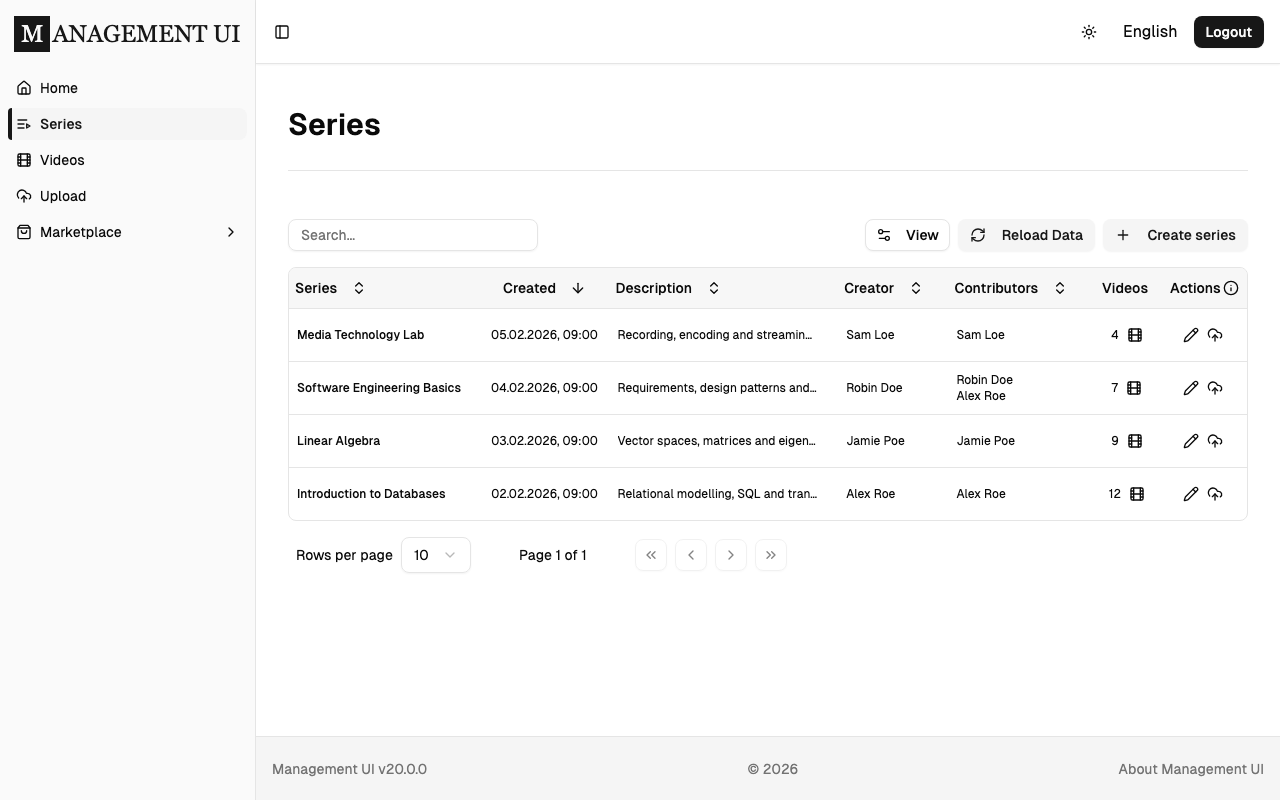
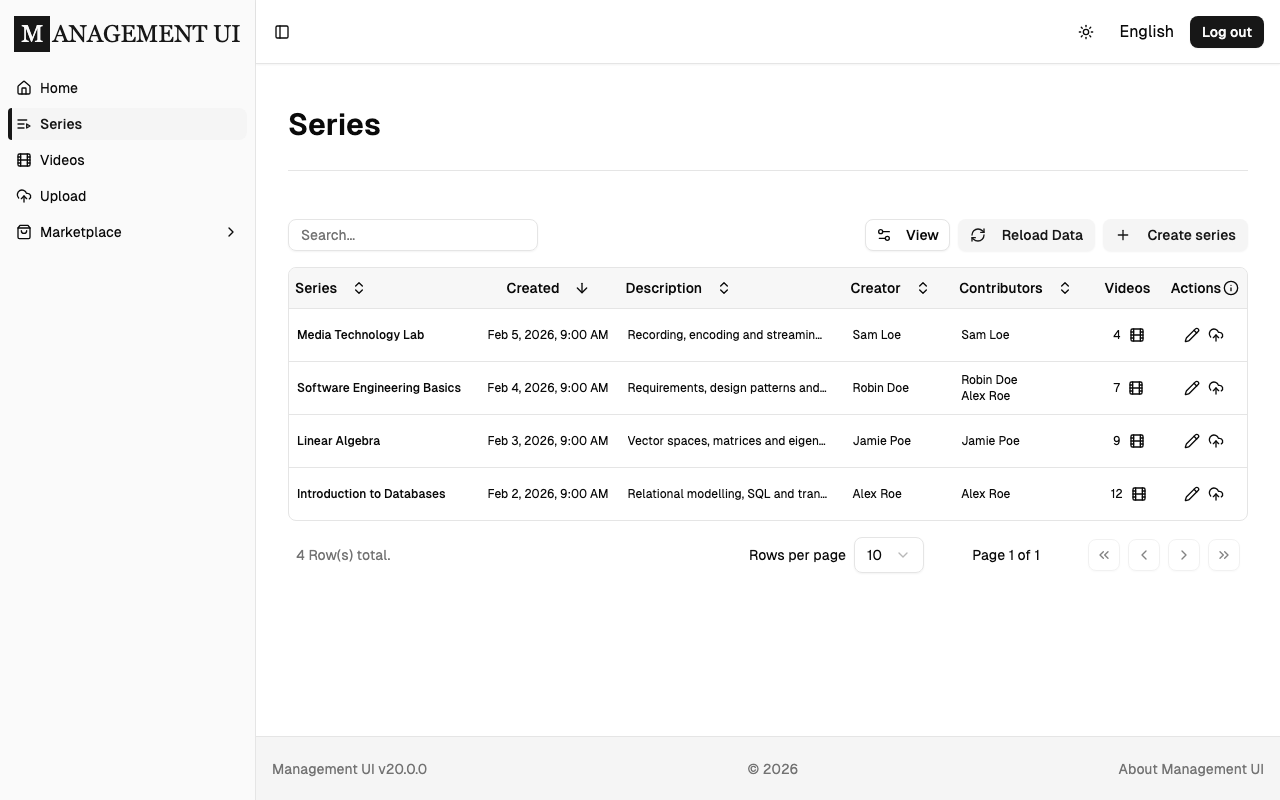
test(e2e): follow the now-translated labels and English dates
Three protocol assertions pinned the old rendering: the header button read
"Logout" before the label went through `t(...)`, and two row assertions
expected the German date format the tables no longer produce. The date checks
keep asserting what the protocol step actually asks for — a date *with* a
time — in the format the shipped `app.locale: "en"` deployment renders.

Docs screenshots regenerated: the pagination row now shows the row counter it
was hiding, and the header button reads "Log out".

diff --git a/tests/e2e/protocol-series.spec.ts b/tests/e2e/protocol-series.spec.ts
@@ -223,7 +223,10 @@ test("[SER-02] [SER-24] [SER-26] the row shows the values the backend supplied",
   // Exactly one creator is shown (SER-26), and the created cell carries a date
   // *and* a time (SER-24), not just a day.
   await expect(page.getByRole("cell", { name: "Alex Roe" })).toHaveCount(1);
-  await expect(page.getByRole("cell", { name: /15\.01\.2026.*\d{2}:\d{2}/ })).toBeVisible();
+  // English format: dates follow the active UI language now, and the shipped
+  // config starts this deployment in English (`app.locale: "en"`). What the
+  // protocol step asks for is a date *plus* a time, not a German one.
+  await expect(page.getByRole("cell", { name: /Jan 15, 2026.*\d{1,2}:\d{2}/ })).toBeVisible();
 });
 
 test("[SER-05] sorting by a column asks the backend to sort, across all pages", async ({

diff --git a/tests/e2e/protocol-episodes.spec.ts b/tests/e2e/protocol-episodes.spec.ts
@@ -376,7 +376,9 @@ test("[VID-27] [VID-28] [VID-30] [VID-31] the row shows presenter, series, date 
   // a time (VID-30) and a status column that carries something (VID-31).
   await expect(page.getByRole("cell", { name: "Alex Roe" })).toHaveCount(1);
   await expect(page.getByRole("cell", { name: "Physik I" })).toBeVisible();
-  await expect(page.getByRole("cell", { name: /10\.02\.2026.*\d{2}:\d{2}/ })).toBeVisible();
+  // English format — see the note in protocol-series.spec.ts; VID-30 asks for
+  // a date with a time, which this still pins.
+  await expect(page.getByRole("cell", { name: /Feb 10, 2026.*\d{1,2}:\d{2}/ })).toBeVisible();
   await expect(page.getByRole("columnheader", { name: /status/i })).toBeVisible();
 });
 

diff --git a/tests/e2e/protocol-navigation.spec.ts b/tests/e2e/protocol-navigation.spec.ts
@@ -131,7 +131,11 @@ test("[GEN-04] a signed-in user is offered a way out", async ({ page }) => {
   await installMockBackend(page, seed());
   await page.goto("/management-ui/");
 
-  await expect(page.getByRole("button", { name: /^logout$/i })).toBeVisible({ timeout: 15_000 });
+  // The label goes through `t("auth.logOut")` now — "Log out" in English,
+  // "Abmelden" in German. Match the action rather than one wording.
+  await expect(page.getByRole("button", { name: /^(log ?out|abmelden)$/i })).toBeVisible({
+    timeout: 15_000,
+  });
 });
 
 /*
